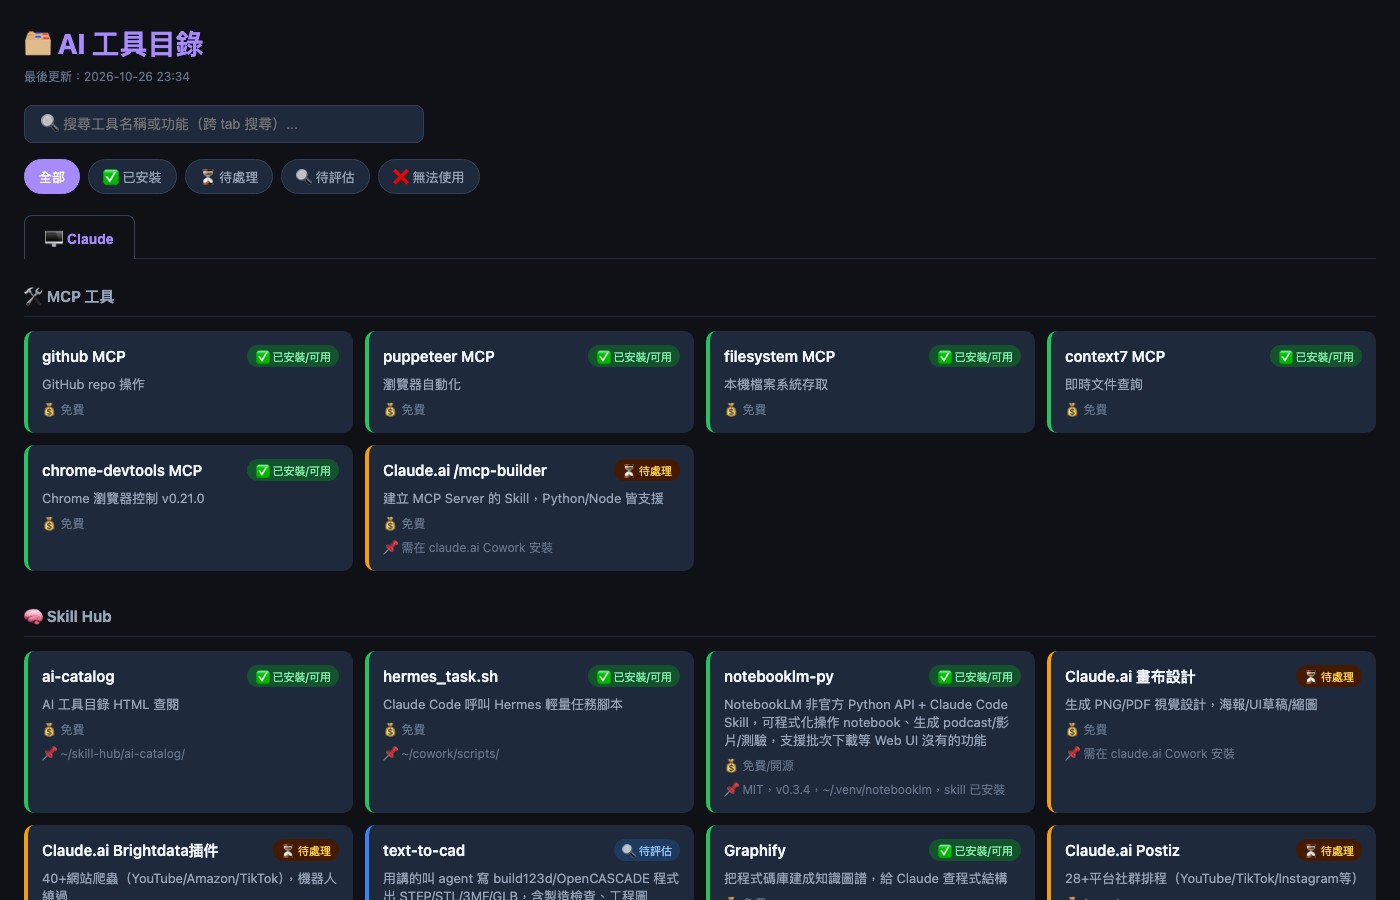
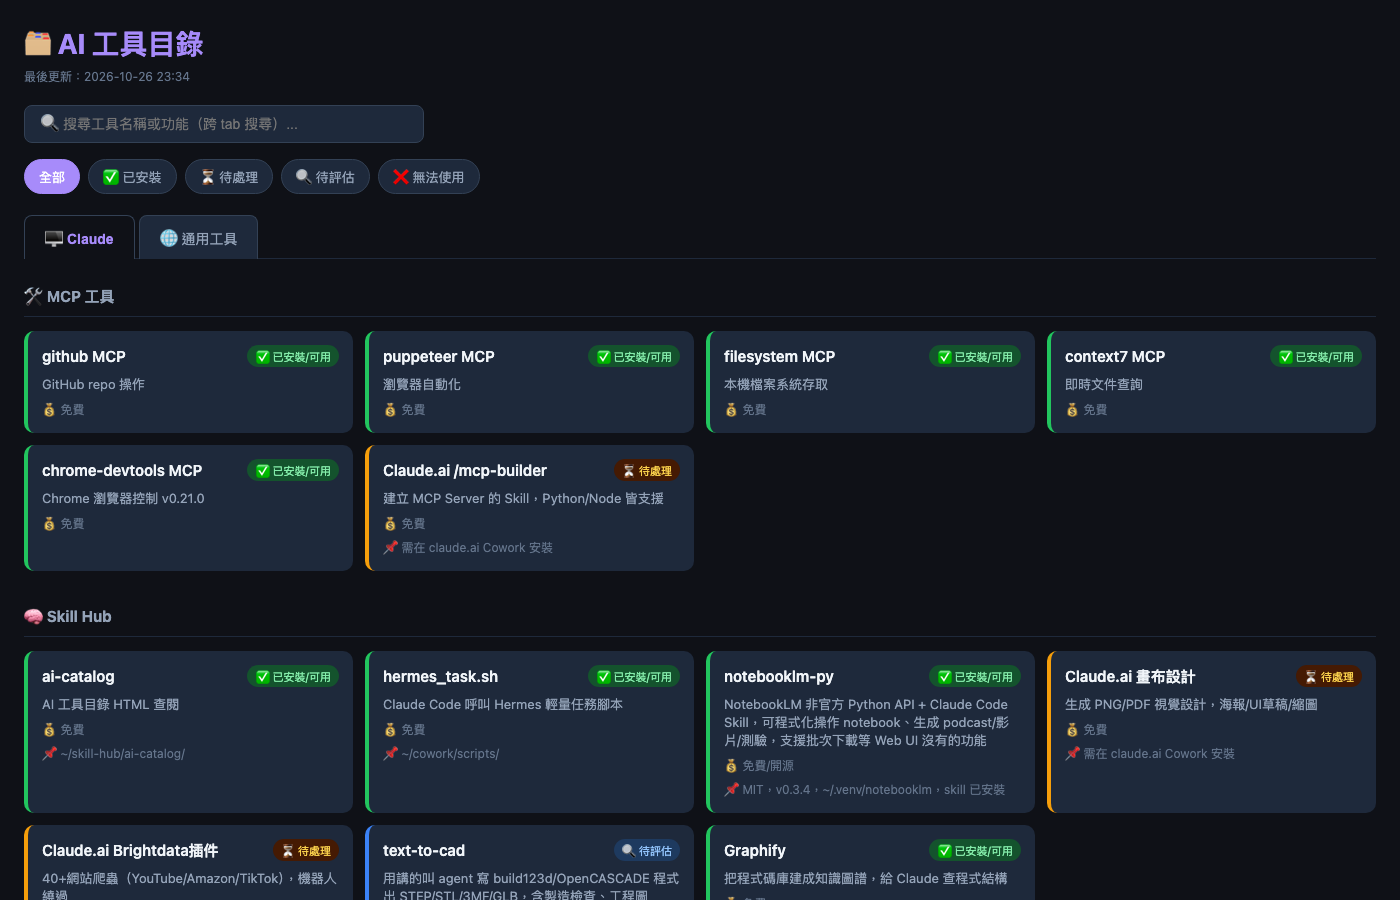
auto: update catalog [2026-10-26 23:34]

Changed region(s): [[0.7371, 0.9022, 0.9829, 1.0], [0.0921, 0.2178, 0.1843, 0.3111]]

diff --git a/ai-tools-catalog.md b/ai-tools-catalog.md
@@ -25,7 +25,9 @@
 | **Claude.ai 畫布設計** | ⏳ 待處理 | 生成 PNG/PDF 視覺設計，海報/UI草稿/縮圖 | 免費 | 需在 claude.ai Cowork 安裝 |
 | **Claude.ai Brightdata插件** | ⏳ 待處理 | 40+網站爬蟲（YouTube/Amazon/TikTok），機器人繞過 | freemium | 大量爬蟲需付費 |
 | **text-to-cad** | 🔍 待評估 | 用講的叫 agent 寫 build123d/OpenCASCADE 程式出 STEP/STL/3MF/GLB，含製造檢查、工程圖（GitHub earthtojake/text-to-cad，2.3萬星） | 免費（MIT） | 10/26 James 傳 FB；可接 CAD轉3D 專案（退路本來就是 OCCT）；裝了要 uvx cadgen telemetry off |
-| **Graphify** | ✅ 已安裝 | 把程式碼庫建成知識圖譜，給 Claude 查程式結構 | 免費 | 10/26 上線每晚 03:30 graphify-nightly：~/cowork/scripts/graphify-out、~/projects/AI_Drama/tools/graphify-out |## 🌐 通用工具
+| **Graphify** | ✅ 已安裝 | 把程式碼庫建成知識圖譜，給 Claude 查程式結構 | 免費 | 10/26 上線每晚 03:30 graphify-nightly：~/cowork/scripts/graphify-out、~/projects/AI_Drama/tools/graphify-out |
+
+## 🌐 通用工具
 | **Claude.ai Postiz** | ⏳ 待處理 | 28+平台社群排程（YouTube/TikTok/Instagram等） | freemium | 需各平台 API Key |
 | **Claude.ai Searchfit SEO** | ⏳ 待處理 | 免費SEO工具組：審核、關鍵字、AI效果追蹤 | 免費 | 適合 YouTube SEO 使用 |
 
@@ -37,6 +39,7 @@
 | **Rapid-MLX** | ✅ 已安裝 | Apple Silicon 本地 LLM 推理，基於 MLX 框架，OpenAI-compatible API，比 Ollama 快 2-4x | 免費/開源 | v0.6.11，brew 安裝，qwen3.5-4b 已下載（168 tok/s），port 11435 |
 | **skilless.ai** | ✅ 已安裝 | 給 Claude Code 加上網頁搜尋、yt-dlp 字幕提取、RSS 解析能力 | 免費 | 一行安裝，已連結 ~/.claude/skills/ |
 | **notebooklm-py** | ✅ 已安裝 | 程式化操作 NotebookLM（list/ask/source add），讓 Claude 直接讀 James 的 YouTube 分析筆記本 | 免費 | 非官方 API；2026-10-02 登入過期需重登；帳號待 James 確認（chenyuchi09 需明確授權） |
+| **gpu-unlock (Zagitta)** | 🔍 待評估 | 解開 RTX 30 系家用卡 Tensor 核心 FP16/BF16 累加限速（3060 回報矩陣運算約 +80%）；只支援 Linux，Windows 為第三方 UEFI 分支 impacifist/Windows-GPU-UNLOCK | 免費 | 10/26 評估暫緩：桌機要關 Secure Boot、改開機鏈，遠端開不了機無人救；H3 是 INT8 可能不受惠；10/28 看 H3 加速節點結果再評（fu-175424d310e2） |
 
 ### 🎬 影片生成
 
@@ -45,6 +48,8 @@
 | **CapCut 剪映 Pro** | 🔍 待評估 | 一站式 AI 影片:AI配音、數位人avatar、字幕、剪輯、去背、縮圖;中文原生字節跳動;Web版可免費試做 | NT290月 或 NT2490年;Web免費可試 | 風管YouTube主力候選;先免費試做驗證中文專有名詞發音 |
 | **HeyGen** | 🔍 待評估 | 高擬真AI主播Avatar IV;175語言對嘴;有API可全自動化;約30分鐘月 | US29月 年繳US24 | 風管YouTube升級選項;有API我可串接自動產片 |
 | **Kling 3.0** | 🔍 待評估 | 圖或文字生角色;Subject Binding 跨鏡角色一致性最強5分;單段最長15秒;無中文配音需配HeyGen | 免費66credits日;Standard US6.99月年繳 | AI短劇方案A核心影片生成;台灣信用卡可付 |
+| **ComfyUI-MiniMaxH3Mod（H3 RefMod）** | ⏳ 待處理 | H3 免訓練角色參考：8 張多角度圖→約1MB refmod 檔，像 LoRA 一樣載入，可同時掛多角色，解雙女主混臉 | 免費（MIT） | github.com/Luisacaotica/ComfyUI-MiniMaxH3Mod；EP01 v3 拍完後裝桌機測 |
+| **MiniMax H3 Singularity ref2va v1.3** | 🔍 待評估 | 社群微調版 H3 參考生成模型；影片作者用 euler＋beta 取樣、Sage＋稀疏注意力加速 | 免費 | 10/26 解析 YT；與官方 ref2va 對照測試排在 EP01 v3 後 |
 
 ### 🖼 圖像生成
 
@@ -53,6 +58,8 @@
 | **Domo AI** | 🔍 待評估 | 上傳角色圖轉動畫Character-to-Video;動漫風格最佳;無中文配音無腳本流;真人感較弱 | Basic US6.99月年繳500credits | James指定納入;動漫短劇適用真人較弱 |
 | **Vidu** | 🔍 待評估 | 多參考圖最多7張角色一致;Reference-to-Video;每段5-8秒;有API | 免費800credits月離峰無限;Standard US10月 | AI短劇方案B角色一致補充;Stripe付款 |
 | **LTX Studio** | 🔍 待評估 | 最完整腳本到分鏡到影片流程;Elements角色場景庫跨鏡一致;個人無API | 免費800credits一次;Standard US28月年繳 | AI短劇方案B一站式腳本流 |
+| **Qwen-Image-Edit-2511 多角度 LoRA** | 🔍 待評估 | ComfyUI 相機控制（水平角／俯仰角／距離），一張乾淨場景圖轉出其他機位，同一場景多角度一致 | 免費（桌機跑） | 10/26 James 核准；已下載 E:\Claude\models\loras；輸出 1536x864 要再放大 |
+| **SeedVR2 放大工作流** | ⏳ 待處理 | ComfyUI 參考圖精細放大（補髮絲睫毛細節），參考圖越清楚影片越好 | 免費（桌機跑） | 10/26 James 核准；節點暫存 E:\Claude\dl，EP01 v3 拍完後裝（fu-da3786bbbd13）；12GB 選 3B GGUF＋blockswap |
 
 ### 📓 知識整理
 
@@ -71,4 +78,4 @@
 - ❌ 無法使用
 
 ---
-*最後更新：2026-05-06*
+*最後更新：2026-10-26*
